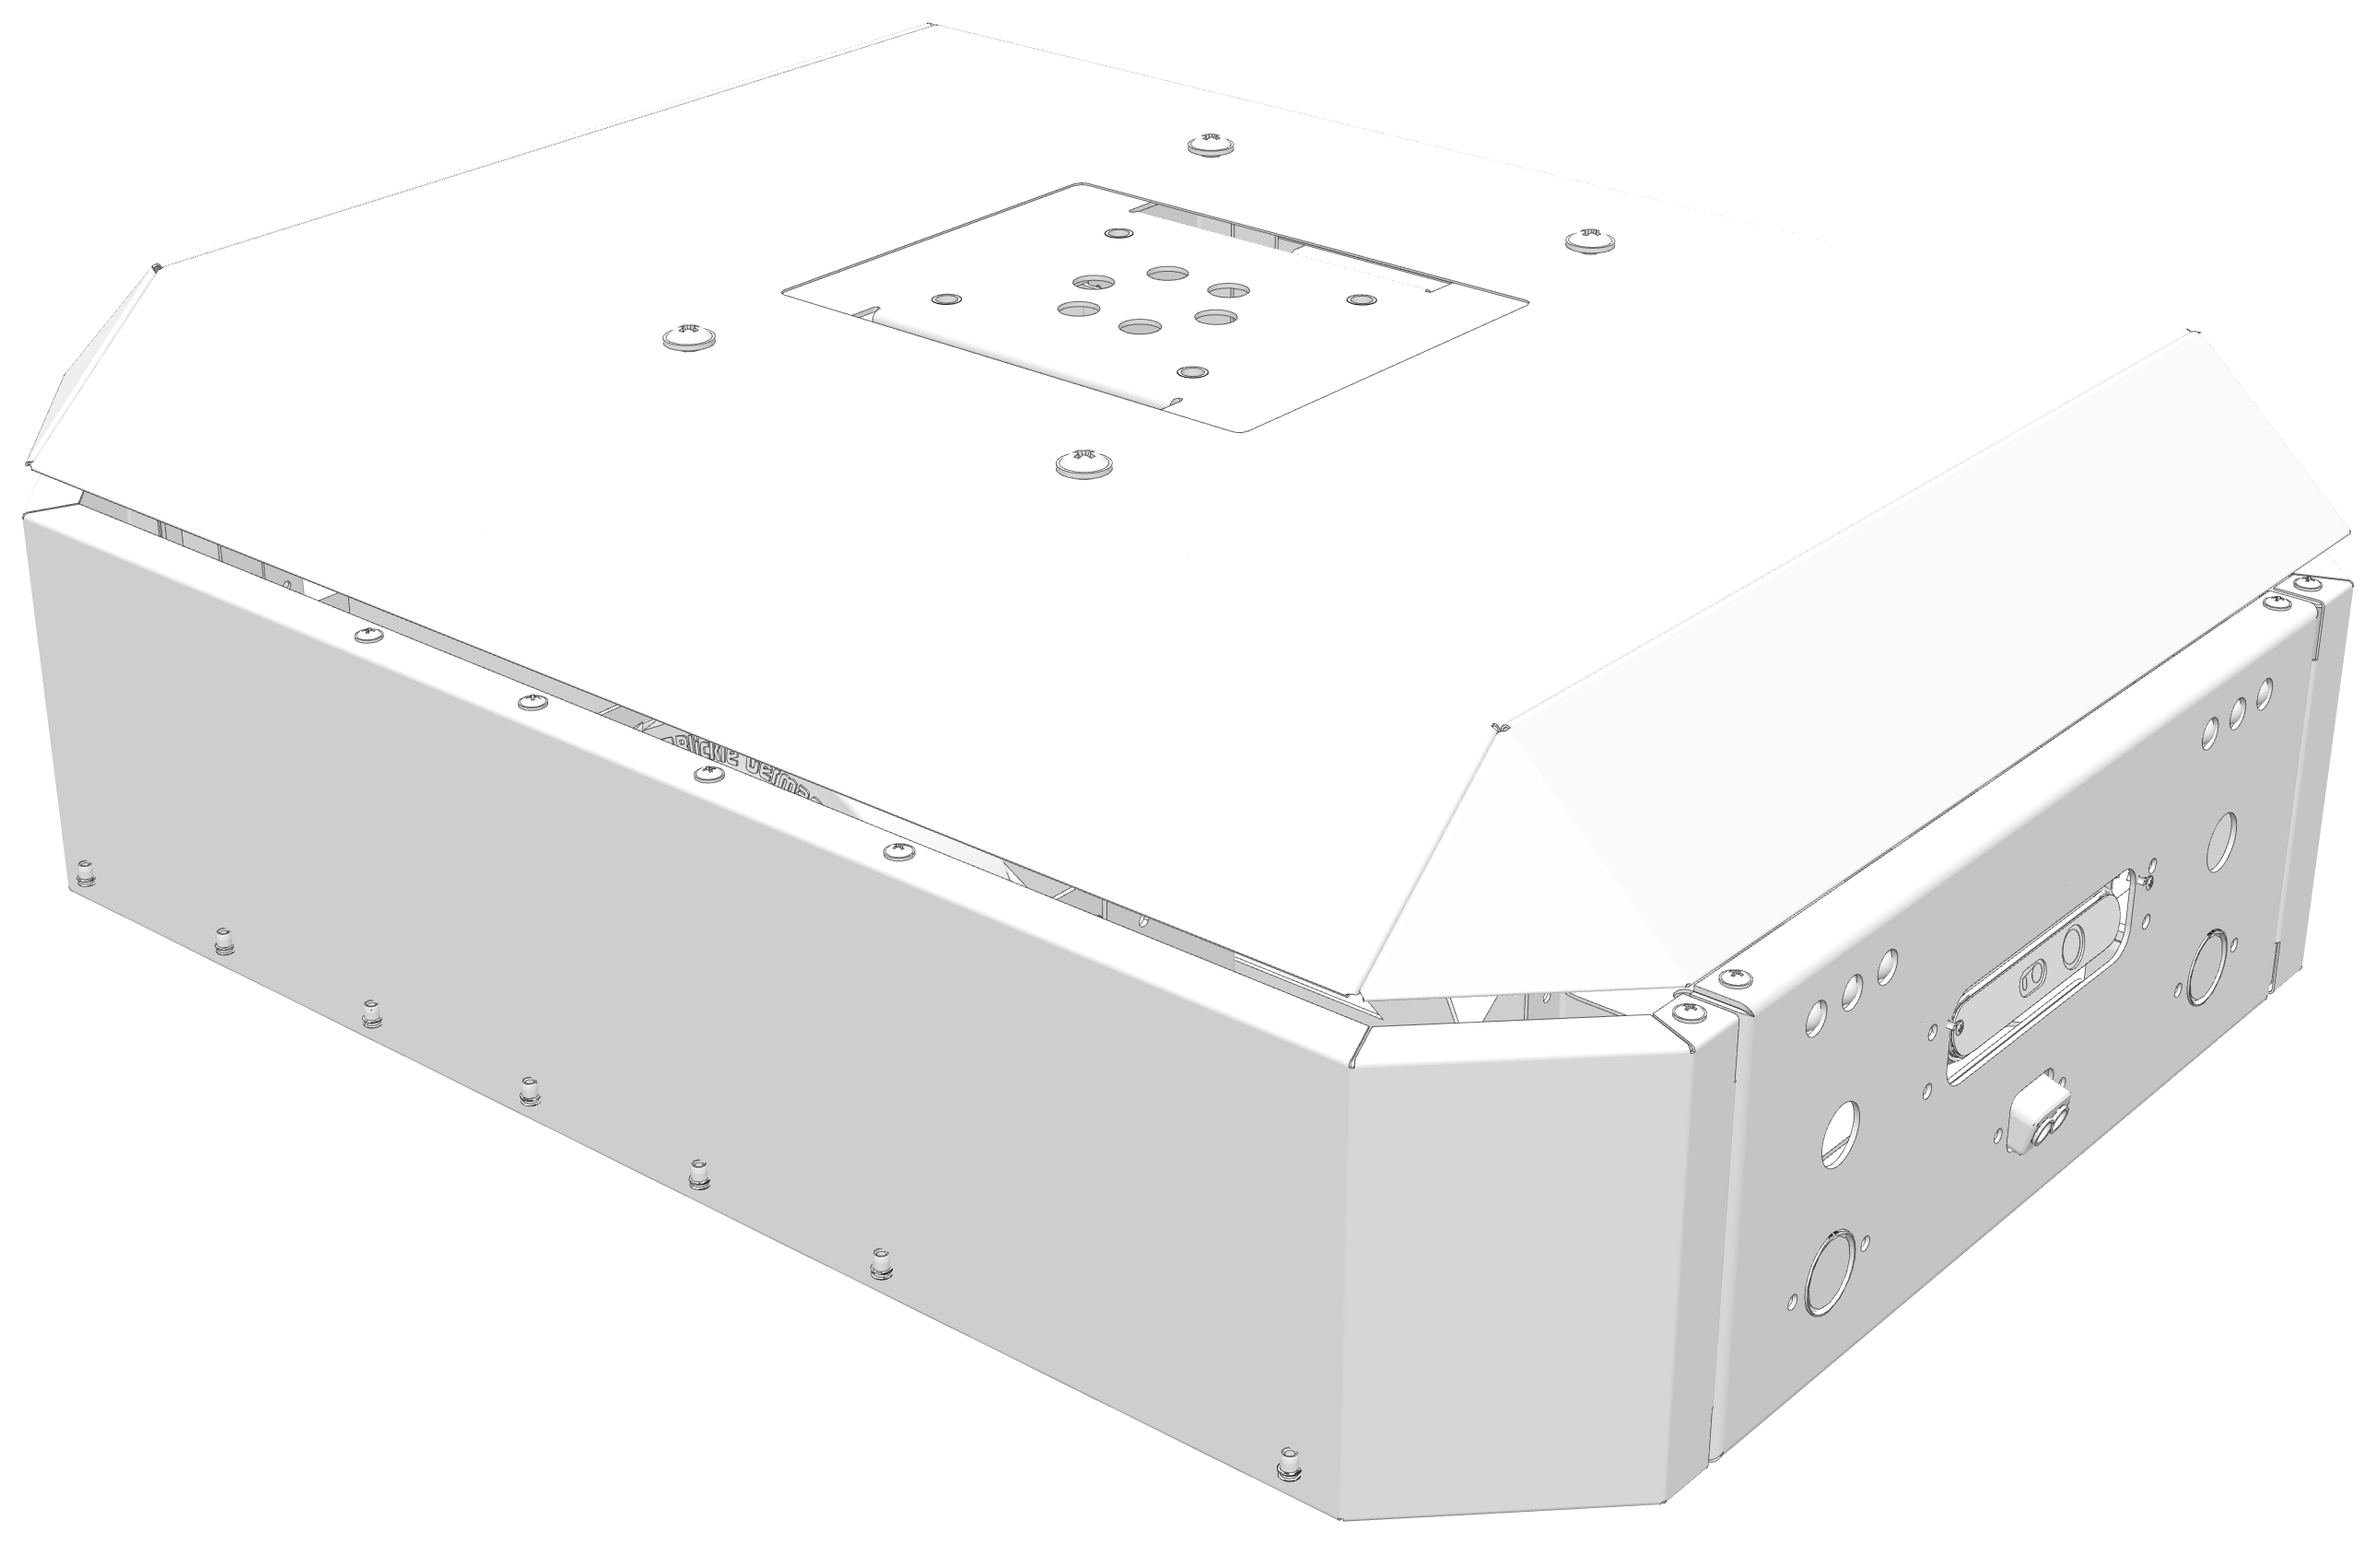
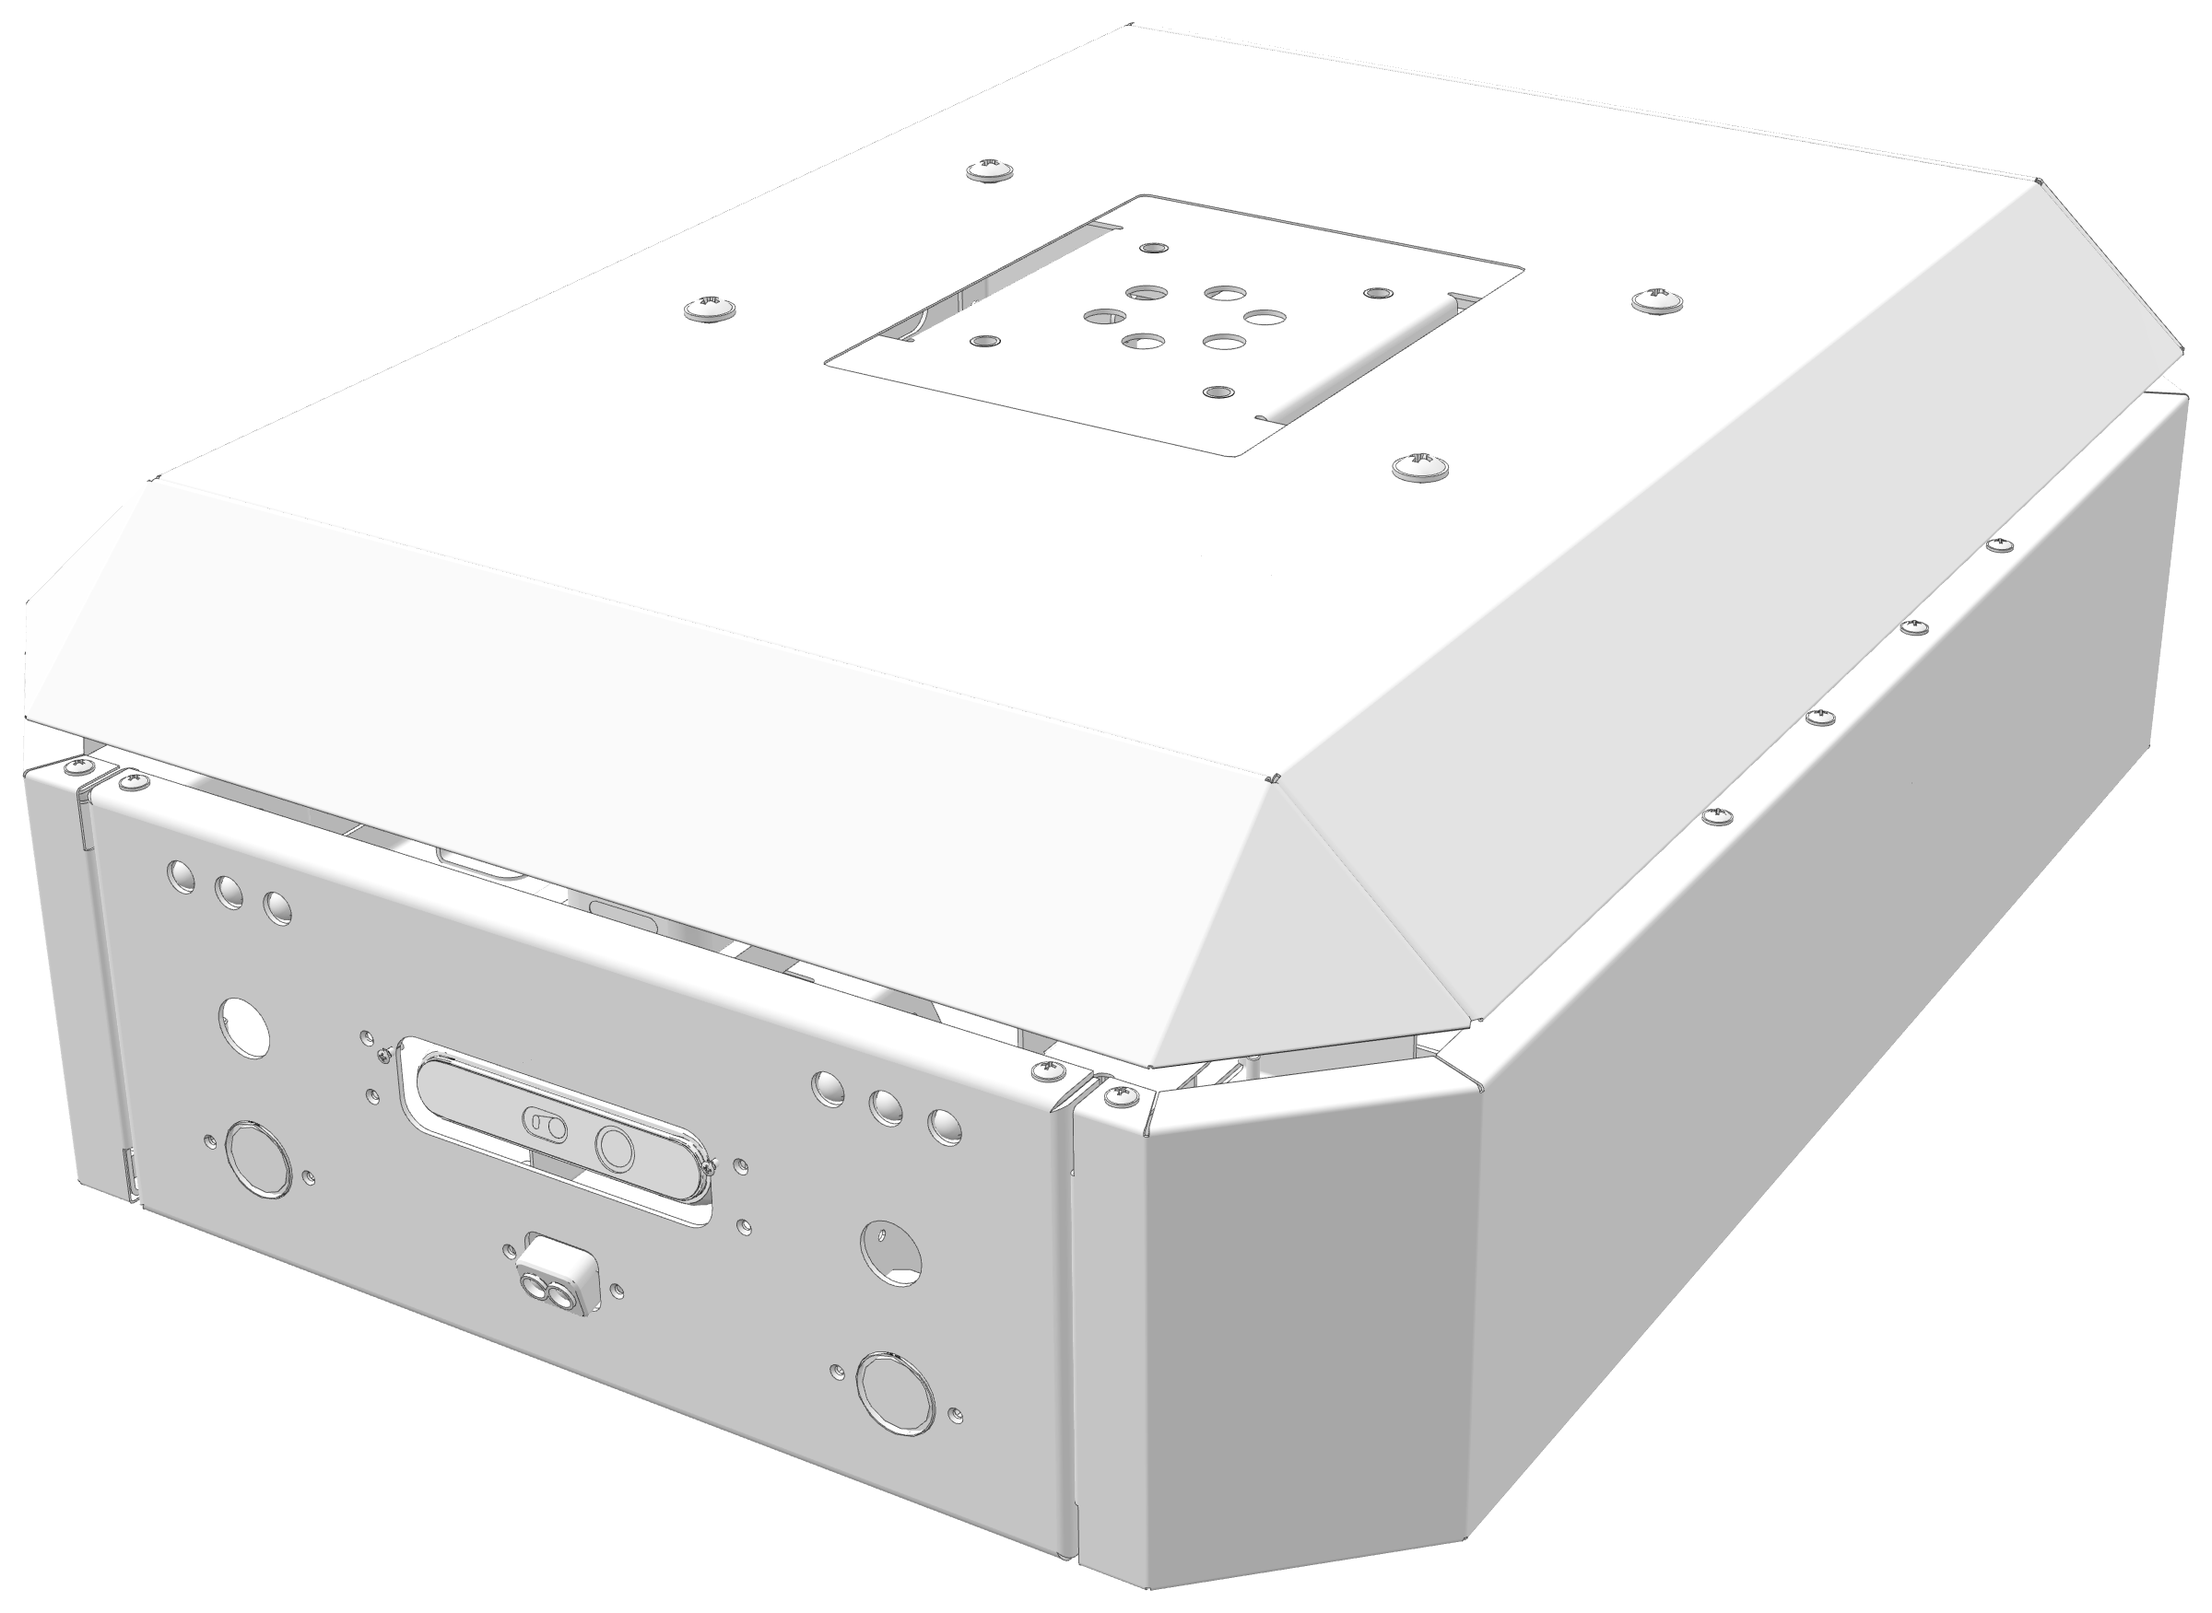
make: front-panel hero view, spacing restore, taller wires
- Hero image re-rendered from the front-panel angle, sized to the slide height
  and half off-screen; line break in the lede
- Lift model shown at 0.9x
- Architecture wires grow up to 96px with available height
- Restore slide spacing; widen .wrap (max-width 1840) to cut outer margins

Claude-Session: https://claude.ai/code/session_01Ns1jiKR6GSSH8DVPkeaPgv

diff --git a/make/index.html b/make/index.html
@@ -34,7 +34,7 @@ body{overflow-x:clip}
 body{background:var(--bg);color:var(--fg);font-family:var(--f-body);font-size:var(--s-14);line-height:1.6;
   -webkit-font-smoothing:antialiased;padding-left:max(16px,env(safe-area-inset-left,0px));padding-right:max(16px,env(safe-area-inset-right,0px))}
 body::before{content:"";position:fixed;inset:0 0 auto;height:env(safe-area-inset-top,0px);z-index:10;background:var(--bg)}
-.wrap{max-width:1400px;margin-inline:auto;padding-inline:clamp(0px,1vw,12px)}
+.wrap{max-width:1840px;margin-inline:auto;padding-inline:clamp(0px,2vw,24px)}
 .mono{font-family:var(--f-mono);font-size:var(--s-12);letter-spacing:.01em;text-transform:uppercase}
 .mute{color:var(--mute)}
 h1,h2,h3{font-family:var(--f-display);font-weight:500;margin:0;text-wrap:balance}
@@ -56,14 +56,14 @@ p{margin:0;max-width:62ch}
 @media (max-width:720px){.stamp{display:none}}
 
 /* slides */
-.slide{padding-block:16px 12px;display:flex;flex-direction:column;gap:11px;border-bottom:1px solid var(--line)}
+.slide{padding-block:32px 24px;display:flex;flex-direction:column;gap:22px;border-bottom:1px solid var(--line)}
 .slide>.body{flex:1;min-height:0}
 @media (min-width:960px) and (min-height:680px){
   html{scroll-snap-type:y mandatory}
   .slide{height:calc(100svh - var(--head) - 1px);scroll-snap-align:start;scroll-snap-stop:always;overflow:hidden}
   footer{scroll-snap-align:end}
 }
-.shead{display:grid;grid-template-columns:minmax(0,5fr) minmax(0,7fr);gap:12px;align-items:end;padding-bottom:9px;border-bottom:1px solid var(--line)}
+.shead{display:grid;grid-template-columns:minmax(0,5fr) minmax(0,7fr);gap:24px;align-items:end;padding-bottom:18px;border-bottom:1px solid var(--line)}
 .shead p{color:var(--ink)}
 @media (max-width:860px){.shead{grid-template-columns:1fr}}
 
@@ -72,9 +72,9 @@ p{margin:0;max-width:62ch}
 @media (min-width:960px) and (min-height:680px){.slide.cover-slide{overflow-x:visible;overflow-y:clip}}
 .mega{font-size:clamp(58px,14vw,270px);letter-spacing:-.05em;line-height:.84;font-weight:500;white-space:nowrap;position:relative;z-index:1;margin-left:-.04em}
 .cover{position:relative;z-index:1;display:flex;flex-direction:column;justify-content:flex-end}
-.cover .l{width:min(52%,760px);display:flex;flex-direction:column;gap:12px;min-width:0}
+.cover .l{width:min(52%,760px);display:flex;flex-direction:column;gap:18px;min-width:0}
 .cover .lede{font-size:var(--s-14);color:var(--ink);max-width:none}
-figure.under{position:absolute;left:55%;bottom:0;width:96%;aspect-ratio:2579 / 1676;margin:0;z-index:0;pointer-events:none}
+figure.under{--hw:calc((100svh - var(--head) - 1px) * 1.3706);position:absolute;top:0;bottom:0;height:100%;width:var(--hw);left:calc(100% + (100vw - 100%) / 2 - var(--hw) / 2);margin:0;z-index:0;pointer-events:none}
 figure.under img{position:absolute;inset:0;width:100%;height:100%;object-fit:contain}
 .lift-note{border:1px solid var(--fg);background:var(--bg);padding:14px 16px;display:grid;gap:6px}
 .lift-note p{color:var(--ink);max-width:none}
@@ -82,7 +82,7 @@ figure.under img{position:absolute;inset:0;width:100%;height:100%;object-fit:con
 .pill{border:1px solid var(--fg);border-radius:99px;padding:3px 12px;background:var(--fg);color:var(--bg)}
 @media (prefers-color-scheme: dark){:root:not([data-theme="light"]) .inv{filter:invert(1)}}
 :root[data-theme="dark"] .inv{filter:invert(1)}
-@media (max-width:960px){.mega{white-space:normal}.cover .l{width:100%}figure.under{position:relative;left:auto;bottom:auto;width:100%;height:auto;aspect-ratio:2579 / 1676}}
+@media (max-width:960px){.mega{white-space:normal}.cover .l{width:100%}figure.under{position:relative;left:auto;bottom:auto;width:100%;height:auto;aspect-ratio:2400 / 1751}}
 
 table{border-collapse:collapse;width:100%}
 .scroll{overflow-x:auto}
@@ -124,7 +124,7 @@ svg [data-only]{transition:opacity .25s}
 .legend i.a{width:14px;height:10px;border:1px dashed var(--fg)}
 
 /* 02 hardware */
-.hw{display:grid;grid-template-columns:minmax(0,1fr);grid-template-rows:minmax(0,1fr) auto;gap:10px}
+.hw{display:grid;grid-template-columns:minmax(0,1fr);grid-template-rows:minmax(0,1fr) auto;gap:20px}
 .hw>*{min-width:0}
 .hwlist{list-style:none;margin:0;padding:0;display:grid;grid-template-columns:repeat(6,minmax(0,1fr));border-top:1px solid var(--fg);border-left:1px solid var(--line)}
 .hwlist li{display:grid;grid-template-columns:1fr auto;gap:2px 8px;align-items:center;padding:9px 12px;border-bottom:1px solid var(--line);border-right:1px solid var(--line);transition:opacity .25s;min-width:0}
@@ -141,7 +141,9 @@ svg [data-only]{transition:opacity .25s}
 
 /* 03 architecture — component flow */
 .flowwrap{overflow-x:auto}
-.flow{display:grid;grid-template-columns:minmax(0,1fr) minmax(0,1fr);column-gap:12px;min-width:640px}
+@media (max-height:980px){.flowwrap .node{padding:8px 14px;margin-top:8px;gap:3px}.node ul{line-height:1.45}.flow .fh{padding:4px 0}.wire::before,.wire::after{bottom:-8px}}
+@media (max-height:780px){.node ul{display:flex;flex-wrap:wrap;column-gap:14px}.node li::before{content:"· "}.flowwrap .flow{grid-template-rows:auto auto minmax(30px,96px) auto minmax(30px,96px) auto minmax(30px,96px) auto}.flowwrap .wire{padding-top:8px}}
+.flow{display:grid;grid-template-columns:minmax(0,1fr) minmax(0,1fr);grid-template-rows:auto auto minmax(44px,96px) auto minmax(44px,96px) auto minmax(44px,96px) auto;align-content:start;column-gap:24px;min-width:640px;height:100%}
 .flow .fh{padding:8px 0;border-bottom:1px solid var(--fg)}
 .node{border:1px solid var(--line);background:var(--bg);padding:12px 16px;display:grid;gap:6px;align-content:start;min-width:0;margin-top:12px}
 .node.shared{border-color:var(--fg)}
@@ -151,10 +153,10 @@ svg [data-only]{transition:opacity .25s}
 .chips{display:flex;gap:6px;flex-wrap:wrap}
 .node ul{margin:0;padding:0;list-style:none;color:var(--ink)}
 .node li::before{content:"— ";color:var(--mute)}
-.wire{position:relative;display:flex;align-items:center;gap:12px;flex-wrap:wrap;padding:22px 0 10px 28px;min-height:60px}
+.wire{position:relative;display:flex;align-items:center;gap:12px;flex-wrap:wrap;padding:12px 0 0 28px}
 .wire::before{content:"";position:absolute;left:12px;top:12px;bottom:-12px;width:1px;background:var(--fg)}
 .wire::after{content:"";position:absolute;left:8px;bottom:-12px;border:4.5px solid transparent;border-top:6px solid var(--fg);border-bottom:0}
-.wire.direct{flex-direction:column;align-items:flex-start;justify-content:center;gap:4px;padding-top:22px}
+.wire.direct{flex-direction:column;align-items:flex-start;justify-content:center;gap:4px;padding-top:12px}
 .wire.direct::before{width:2px;left:11.5px}
 .wire.direct b{font-family:var(--f-display);font-weight:500;font-size:var(--s-28);letter-spacing:-.02em;line-height:1.15;margin-top:6px}
 .cand{font-family:var(--f-mono);font-size:10px;letter-spacing:.02em;color:var(--mute)}
@@ -186,11 +188,11 @@ svg [data-only]{transition:opacity .25s}
 @media (max-width:960px){.cmpv{grid-template-columns:1fr}.cmpv>.half+.half{border-left:0;border-top:1px solid var(--line)}.cmpv .stage{aspect-ratio:4/3;flex:none}}
 
 /* 05 lift */
-.lift{display:grid;grid-template-columns:minmax(0,7fr) minmax(0,5fr);gap:12px}
+.lift{display:grid;grid-template-columns:minmax(0,7fr) minmax(0,5fr);gap:24px}
 .lift .viewer{display:flex;flex-direction:column;border:1px solid var(--line);min-height:0}
 .lift .viewer .stage{flex:1}
 .lift .viewer .ctrlbar{padding:10px 14px;border-top:1px solid var(--line)}
-.lift .info{display:flex;flex-direction:column;gap:10px;min-width:0;overflow:auto}
+.lift .info{display:flex;flex-direction:column;gap:16px;min-width:0;overflow:auto}
 .lift .chain{margin-left:auto}
 .sel{display:grid;grid-template-columns:1fr 1fr;border-top:1px solid var(--fg)}
 .sel .opt{padding:10px 14px 10px 0;border-bottom:1px solid var(--line);display:grid;gap:4px;align-content:start}
@@ -258,7 +260,7 @@ footer{padding-block:16px 40px;display:flex;justify-content:space-between;gap:16
             </tbody>
           </table>
         </div>
-        <p class="lede">공장 설계에서 정의한 AMR과 AGV 미션을 실제로 굴러가는 로봇으로 옮깁니다. 하부 구동부와 전원은 같이 쓰고, 경로를 찾는 방식만 다르게 만듭니다. AMR은 SBC와 LiDAR로 스스로 경로를 찾고, AGV는 IR 센서로 바닥 라인을 따라갑니다.</p>
+        <p class="lede">공장 설계에서 정의한 AMR과 AGV 미션을 실제로 굴러가는 로봇으로 옮깁니다. 하부 구동부와 전원은 같이 쓰고,<br>경로를 찾는 방식만 다르게 만듭니다. AMR은 SBC와 LiDAR로 스스로 경로를 찾고, AGV는 IR 센서로 바닥 라인을 따라갑니다.</p>
         <div class="lift-note">
           <span class="mono">Lift · 제작 예정</span>
           <p>앞서 설계한 스마트팩토리 가정안의 배터리 메리지(배터리 팩 – 차체 결합) 공정을 로봇으로 구현하려고 리프트를 직접 만듭니다. 로봇이 배터리를 싣고 와 차체 아래에서 들어 올리는 동작을 축소해 보여줍니다.</p>
@@ -266,7 +268,7 @@ footer{padding-block:16px 40px;display:flex;justify-content:space-between;gap:16
         <div class="pillrow mono"><span class="pill">공통 추가 · 초음파 센서</span><span class="pill">공통 추가 · Lift</span></div>
       </div>
     </div>
-    <figure class="under"><img class="inv" src="hero.png" alt="MMP.00 레퍼런스 로봇 3D 모델의 상부 커버와 전면 패널을 가까이서 본 모습." width="2579" height="1676"></figure>
+    <figure class="under"><img class="inv" src="hero.png?v=front" alt="MMP.00 레퍼런스 로봇 3D 모델을 앞쪽 위에서 본 모습. 커넥터와 구멍이 있는 전면 패널과 8각 상부 커버가 보인다." width="2400" height="1751"></figure>
   </section>
 
   <!-- 02 hardware -->
@@ -673,7 +675,7 @@ addScript('parts-model.js?v=2').then(async()=>{
     bD.onclick=()=>{ty=0;bD.setAttribute('aria-pressed','true');bU.setAttribute('aria-pressed','false');};
     s0.radius+=TRAVEL*.5;s0.center.y+=TRAVEL*.5;
   }
-  vL.fit(s0,.9);
+  vL.fit(s0,1.0);
   [[vH,H],[vML,ML],[vMR,MR]].forEach(([v,g])=>{v.setModel(g.scene);v.fit(sphereOf(g.scene),1.31);});
 }).catch(()=>{[vL,vH,vML,vMR].forEach(v=>v.fail());});
 
